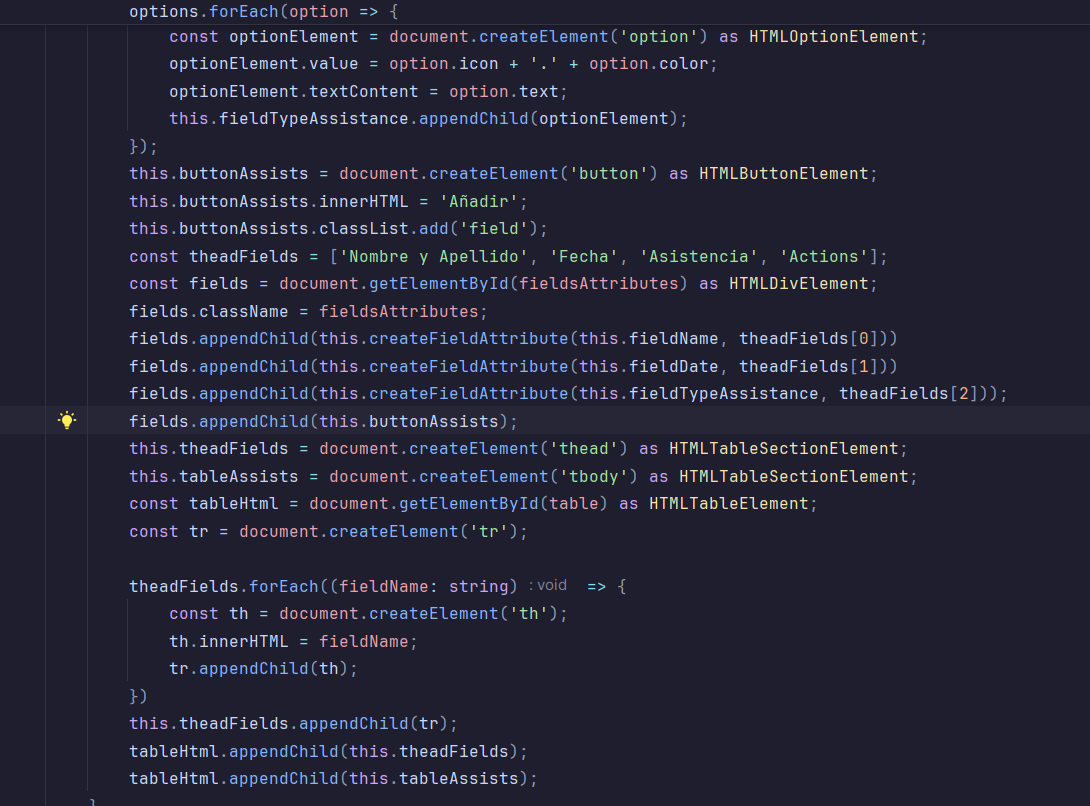
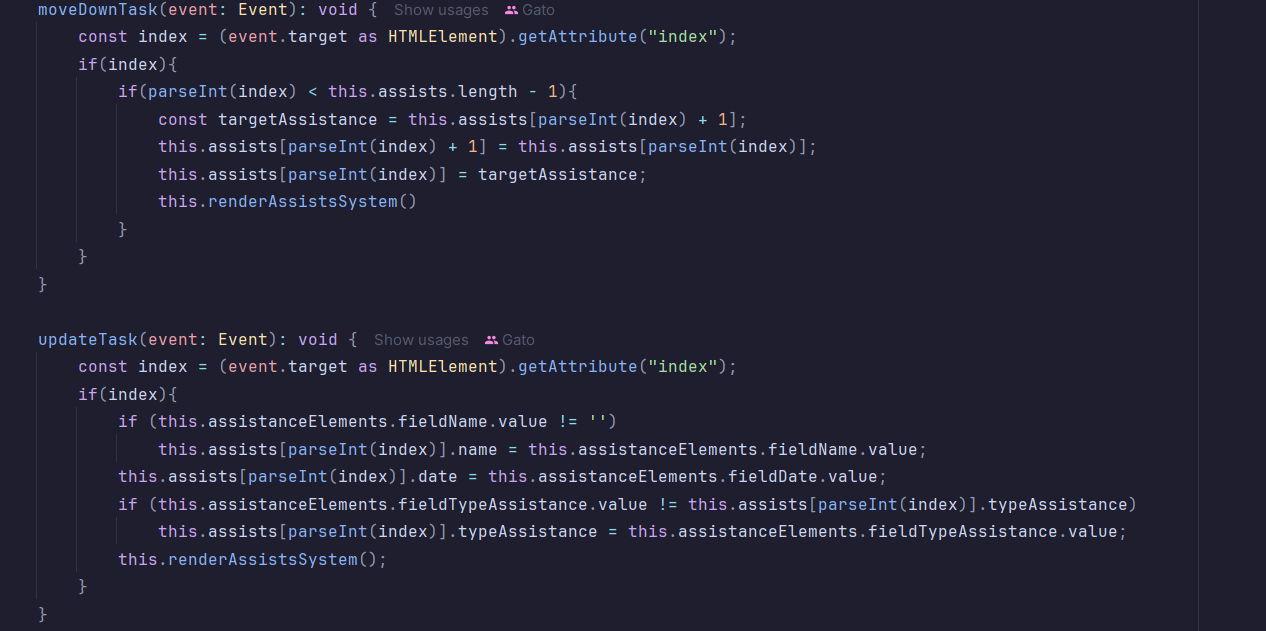
parcial terminado

Changed region(s): [[0.0312, 0.0, 0.9046, 0.9937]]

diff --git a/README.md b/README.md
@@ -14,5 +14,14 @@ atributos en su función principal RenderAssistsSystem. La funcion maneja
 el atributo date dependiendo si el usuario llena o no el campo fecha.
 
 ![img_1.png](documentation/img_1.png)
+Creacion de elementos y implementacion de las funciones para el cambio de
+orden, eliminacion y modificacion de las asistencias.
 
+![img_1.png](documentation/img_1.png)
+
+Validacion de los campos name y typeAssistance si contienen texto. Empaquetamiento
+de las funciones en un array para setear su logica en los iconos.
+
+![img_2.png](documentation/img_2.png)
+![img.png](documentation/img.png)
 Desarrollador: Oswaldo Maguiño Soto
